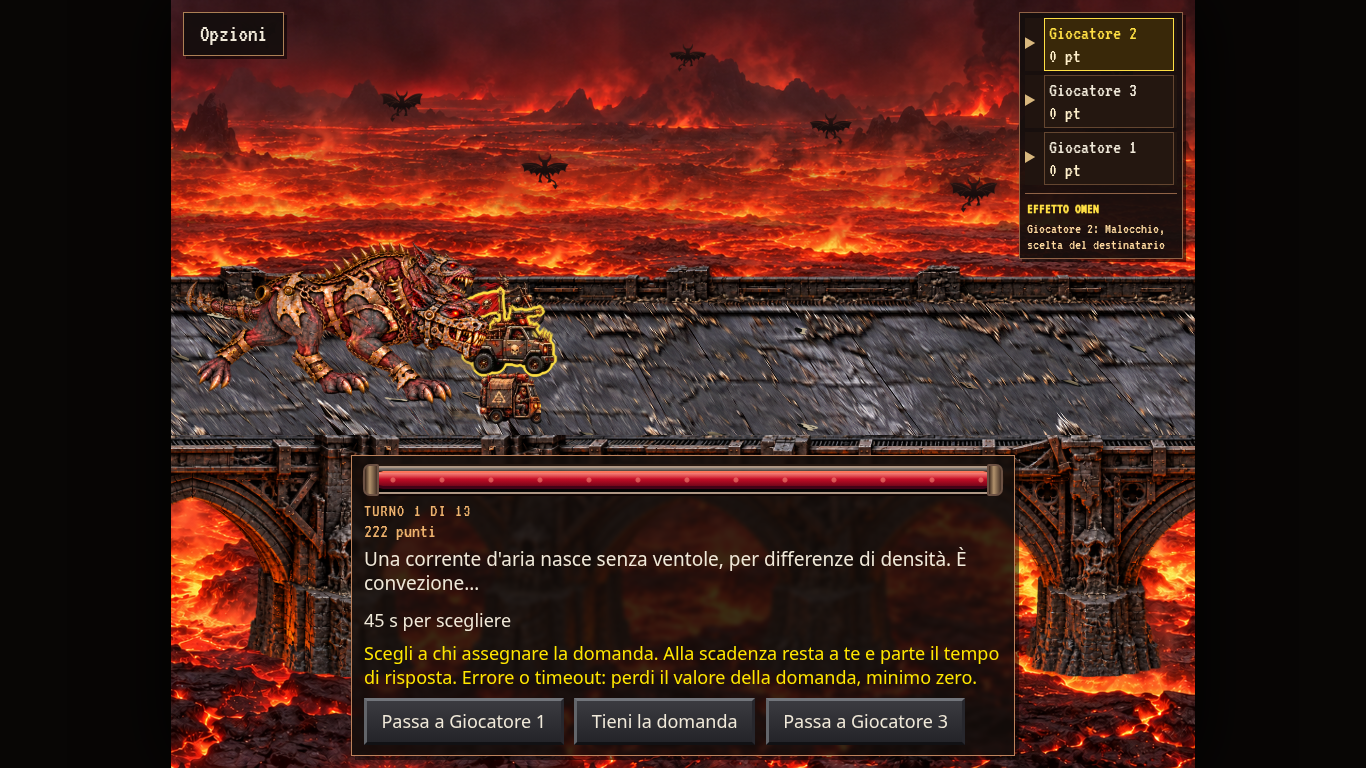
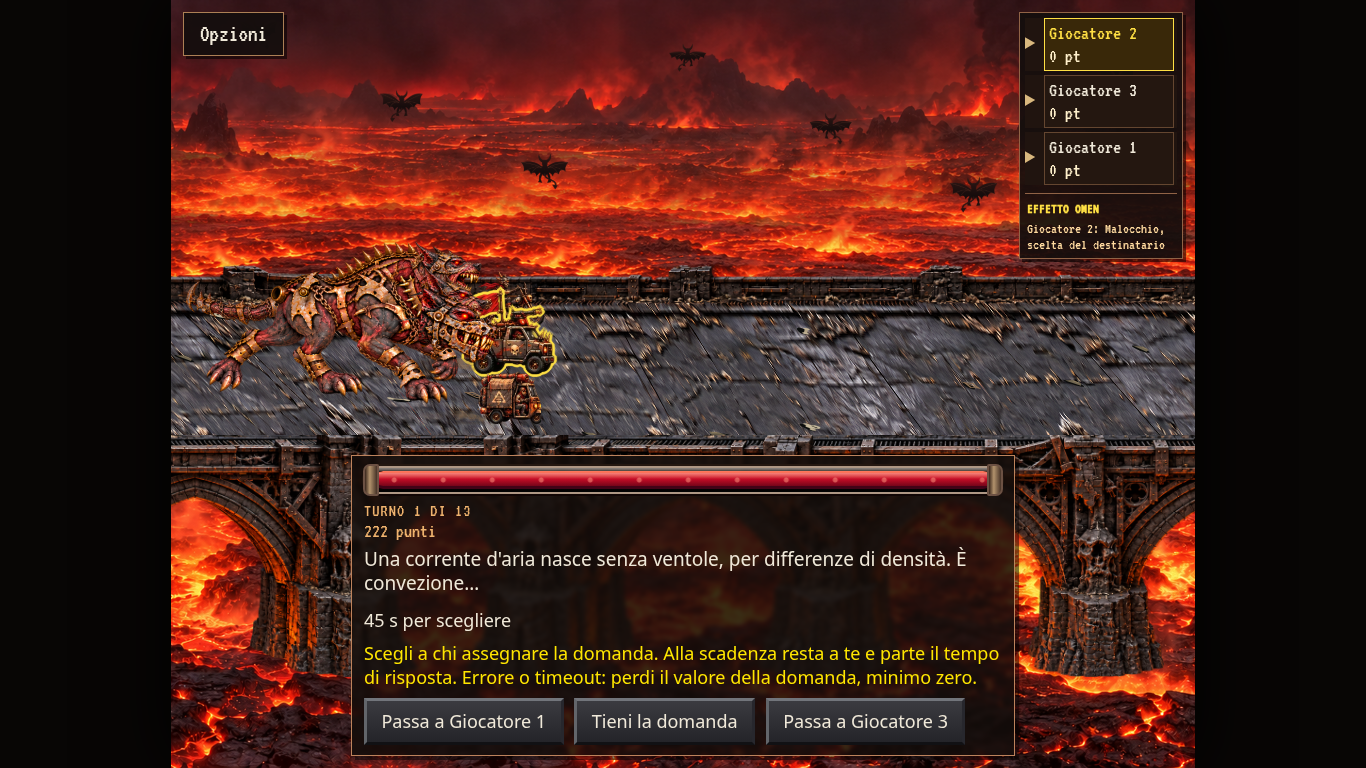
Refresh real-browser evidence for final 13-turn runtime and regression checks

diff --git a/docs/turni-cerbero/README.md b/docs/turni-cerbero/README.md
@@ -30,6 +30,7 @@ La home usa `assets/hellscape-cerbero-home.webp`, nuova illustrazione dal riferi
 
 - `npm test`: regole, turni, conteggi idempotenti, scadenze, migrazioni, punteggi e dataset.
 - `npm run test:frames`: sagome, articolazioni, veicoli rigidi ed effetti.
+- `npm run test:ammo`: animazioni delle nove Omen, tre viewport, pausa/ripresa, ricaricamento e dimostrazione offline.
 - `python3 tests/configurable.py`: impostazioni su due banche e due viewport, durate 1/4/13/99, probabilità e vecchi profili.
 - `python3 tests/tie_browser.py --quick`: Ultimo Miglio offline, avanzamento, input, pausa e ripresa.
 - `python3 tests/turn_limit_browser.py`: spareggio dopo l’ultimo turno saltato o ceduto, domanda iniziale e focus, pausa e comandi su desktop/mobile e movimento ridotto; incluso in `test:ties`.
@@ -39,4 +40,4 @@ La home usa `assets/hellscape-cerbero-home.webp`, nuova illustrazione dal riferi
 
 Le GIF sono registrazioni reali del browser a 20 FPS. `fuoco-periodico.gif` mostra 3,8 secondi della corsa ordinaria. `malocchio-scadenza.gif` mostra gli ultimi 2 secondi della scelta e l’avvio del tempo intero per rispondere, configurato a 90 secondi per distinguere i due conti alla rovescia: il tempo precedente viene saltato **prima** dell’acquisizione. La finestra desktop è 1366×768, export GIF 640×360; il controllo offline usa 844×390. Revisione e impronte dei file sono nel rapporto.
 
-Acquisizioni dal runtime `2638fd45aaab2ad0a105226bd9a1749355e94a78`. Il commit degli allegati aggiunge anche il controllo browser delle fiammate alla suite motion, senza modificare i file runtime. Esiti locali: 170 test Node e dataset, suite frame, configurazione e Ultimo Miglio, verifica browser di Malocchio/Flagello/catture/portale, acquisizioni sito/offline e controllo degli emettitori durante pausa/ripresa riusciti.
+Acquisizioni dal runtime `278c5c94dbdd00eb96462093acf9770f1e897339`. Il commit degli allegati aggiorna soltanto le prove e la documentazione, senza modificare i file runtime. I nuovi casi browser verificano anche la prima domanda dello spareggio dopo turno saltato o ceduto, su desktop/mobile e con movimento ridotto. Esiti locali: 170 test Node e dataset, suite frame, configurazione e Ultimo Miglio, verifica browser di Malocchio/Flagello/catture/portale, acquisizioni sito/offline e controllo degli emettitori durante pausa/ripresa riusciti.
